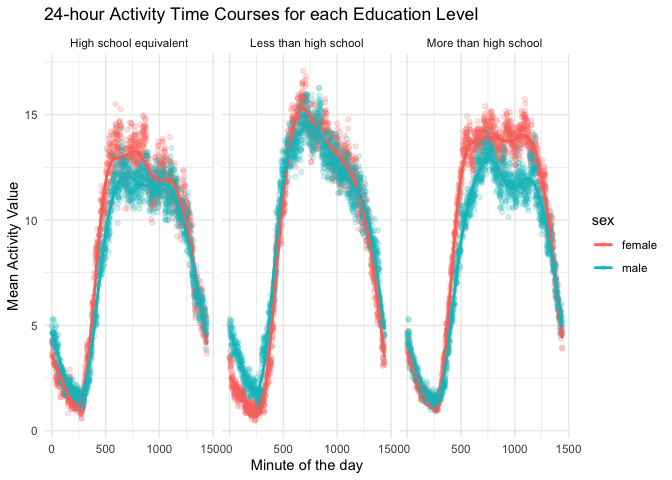
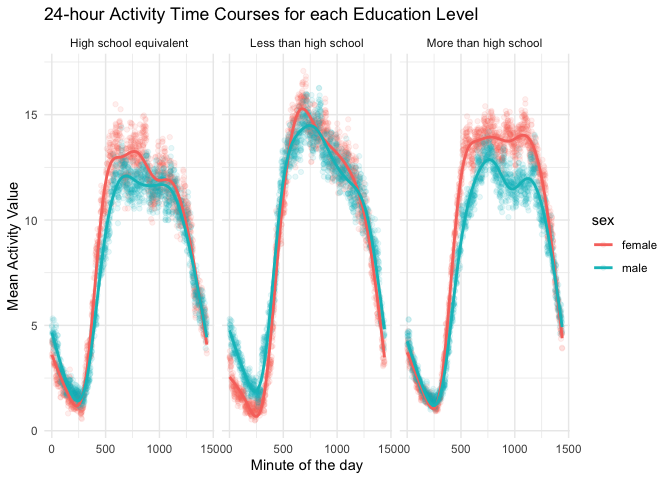
change the alpha level of plot in problem 3

diff --git a/p8105_hw3_xw2962.md b/p8105_hw3_xw2962.md
@@ -596,7 +596,7 @@ group_24_df = merged_demo_accel_data|>
 
 group_24_plot = group_24_df|>
   ggplot(aes(x = time, y = mean,color = sex))+
-  geom_point(alpha = .2)+
+  geom_point(alpha = .1)+
   geom_smooth(se=FALSE)+
   labs(x="Minute of the day",y="Mean Activity Value",title="24-hour Activity Time Courses for each Education Level") +
   facet_grid(. ~ education) +
